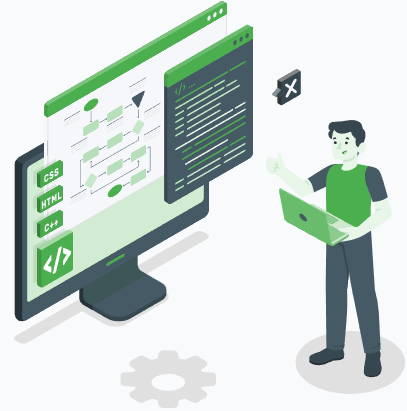
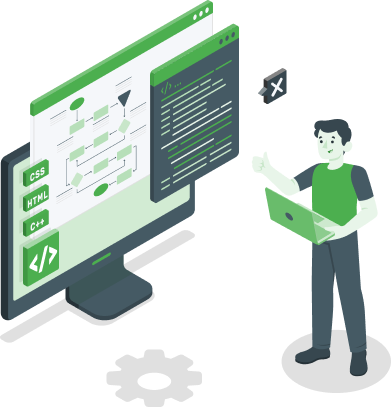
Finished 85%

diff --git a/index.html b/index.html
@@ -31,23 +31,29 @@
   </head>
   <body>
     <!-- NAVIGATION -->
-    <nav class="container navigation d-flex flex-row align-items-center mt-3">
+    <nav
+      class="container navigation d-flex flex-row align-items-center mt-3 mb-3"
+    >
       <div class="col-5 d-flex align-items-center">
         <img src="css/slike/Nextcent_icon.png" alt="Nextcent Icon" />
-        <h2 class="fw-bold">Nexcent</h2>
+        <h1 class="fw-bold brandNameColor">Nexcent</h1>
       </div>
-      <div class="d-flex col-7 justify-content-evenly align-items-center">
-        <a>Home</a>
-        <a>Features</a>
-        <a>Community</a>
-        <a>Blog</a>
-        <a>Pricing</a>
+      <div
+        class="d-flex col-7 justify-content-evenly align-items-center textDecoration"
+      >
+        <a href="#" class="fw-bold">Home</a>
+        <a href="#" class="fw-bold">Features</a>
+        <a href="#" class="fw-bold">Community</a>
+        <a href="#" class="fw-bold">Blog</a>
+        <a href="#" class="fw-bold">Pricing</a>
+
         <button class="buttonRegisterNow btn btn-success">
           Log in<span class="ms-2">&#8594;</span>
         </button>
       </div>
     </nav>
-    <div class="sliderAdBackgroundColor vh-100 d-flex align-items-center">
+    <!-- Lessons and insights -->
+    <div class="sliderAdBackgroundColor d-flex align-items-center">
       <div class="container">
         <div class="row align-items-center">
           <div class="col-md-6 text-start">
@@ -55,7 +61,7 @@
               Lessons and insights <br />
               <span class="from8Years fw-bold">from 8 years</span>
             </h1>
-            <p class="my-4 text-muted">
+            <p class="my-4 text-muted color717171">
               Where to grow your business as a photographer: site or social
               media?
             </p>
@@ -74,6 +80,237 @@
           </div>
         </div>
       </div>
+    </div>
+    <!-- Our clients -->
+    <div class="container d-flex justify-content-center align-items-center">
+      <div class="d-flex flex-column align-items-center">
+        <h1 class="color4D4D4D mt-3 fw-bold">Our clients</h1>
+        <p class="color717171 mt-1">
+          We have been working with some Fortune 500+ clients
+        </p>
+        <img
+          class="mt-5"
+          src="css/slike/Nextcent_Client_Logos.png"
+          alt="Nextcent Client Logos"
+        />
+        <h1 class="color4D4D4D mt-5 fw-bold">Manage your entire community</h1>
+        <h1 class="color4D4D4D fw-bold">in a single system</h1>
+        <p class="color717171 mt-1">Who is Nextcent suitable for?</p>
+      </div>
+    </div>
+    <!-- Memberships, associations, clubs, ... -->
+    <div class="container d-flex flex-row justify-content-evenly mt-5 mb-5">
+      <div
+        class="col-3 d-flex justify-content-center align-items-center flex-column"
+      >
+        <img
+          src="css/slike/Nexcent_Client_Logo_6.png"
+          alt="Nextcent Bulding Logo"
+        />
+        <h3 class="color4D4D4D fw-bold">Membership</h3>
+        <h3 class="color4D4D4D fw-bold">Organisations</h3>
+        <p class="color717171 text-center">
+          Our membership managment software provides full automation of
+          membership renewals and payments
+        </p>
+      </div>
+      <div
+        class="col-3 d-flex justify-content-center align-items-center flex-column"
+      >
+        <img
+          src="css/slike/Nexcent_Client_Logo_7.png"
+          alt="Nextcent Bulding Logo"
+        />
+        <h3 class="color4D4D4D fw-bold">National</h3>
+        <h3 class="color4D4D4D fw-bold">Associations</h3>
+        <p class="color717171 text-center">
+          Our membership managment software provides full automation of
+          membership renewals and payments
+        </p>
+      </div>
+      <div
+        class="col-3 d-flex justify-content-center align-items-center flex-column"
+      >
+        <img
+          src="css/slike/Nexcent_Client_Logo_8.png"
+          alt="Nextcent Bulding Logo"
+        />
+        <h3 class="color4D4D4D fw-bold">Clubs And</h3>
+        <h3 class="color4D4D4D fw-bold">Groups</h3>
+        <p class="color717171 text-center">
+          Our membership managment software provides full automation of
+          membership renewals and payments
+        </p>
+      </div>
+    </div>
+    <!-- Pixelgrade section -->
+    <div
+      class="container d-flex justify-content-evenly align-items-center mb-5"
+    >
+      <div>
+        <img src="css/slike/Nexcent_Development_2.png" />
+      </div>
+      <div class="col-5">
+        <h2 class="color4D4D4D fw-bold">
+          The unseen of spending three years at Pixelgrade
+        </h2>
+        <p class="color717171 mt-4">
+          Lorem ipsum, dolor sit amet consectetur adipisicing elit. Dignissimos,
+          laudantium aliquam neque hic odit modi consequatur dolores illo
+          reprehenderit. Exercitationem eius ex sunt molestiae vel perferendis
+          eum voluptatum illo facilis?
+        </p>
+        <button class="registerButton btn btn-success px-4 py-2">
+          Learn more
+        </button>
+      </div>
+    </div>
+    <!-- Members,clubs,bookings,payment counts -->
+    <div class="countingObjectsBackground d-flex mb-5">
+      <div
+        class="container d-flex flex-row justify-content-center align-items-center"
+      >
+        <div class="col-6">
+          <h2 class="color4D4D4D fw-bold">Helping a local</h2>
+          <h2 class="color4caf4f fw-bold">business reinvent itself</h2>
+          <p class="color717171">
+            We reached here with our hard work and dedication
+          </p>
+        </div>
+        <div class="d-flex flex-wrap countingObjects">
+          <div class="d-flex flex-row justify-content-center">
+            <div>
+              <img
+                src="css/slike/Nexcent_Members_Icon.png"
+                alt="Nexcent Members Icon"
+              />
+            </div>
+
+            <div>
+              <h3 class="fw-bold color505050">2,245,341</h3>
+              <p class="color717171">Members</p>
+            </div>
+          </div>
+          <div class="d-flex flex-row justify-content-center">
+            <div>
+              <img
+                src="css/slike/Nexcent_Clubs_Icon.png"
+                alt="Nexcent Clubs Icon"
+              />
+            </div>
+            <div>
+              <h3 class="fw-bold color505050">46,328</h3>
+              <p class="color717171">Clubs</p>
+            </div>
+          </div>
+          <div class="d-flex flex-row justify-content-center">
+            <div>
+              <img
+                src="css/slike/Nexcent_Event_Bookings_Icon.png"
+                alt="Nexcent Members Icon"
+              />
+            </div>
+            <div>
+              <h3 class="fw-bold color505050">828,867</h3>
+              <p class="color717171">Event Bookings</p>
+            </div>
+          </div>
+          <div class="d-flex flex-row justify-content-center">
+            <div>
+              <img
+                src="css/slike/Nexcent_Payments_Icon.png"
+                alt="Nexcent Members Icon"
+              />
+            </div>
+            <div>
+              <h3 class="fw-bold color505050">1,926,436</h3>
+              <p class="color717171">Payments</p>
+            </div>
+          </div>
+        </div>
+      </div>
+    </div>
+    <!-- Design footer text -->
+    <div
+      class="container d-flex flex-row justify-content-between align-items-center mb-5"
+    >
+      <div>
+        <img
+          src="css/slike/Nexcent_Development_3.png"
+          alt="Nexcent Development Image"
+        />
+      </div>
+      <div class="col-5">
+        <h2 class="color4D4D4D fw-bold">
+          How to design your site footer like we did
+        </h2>
+        <p class="color717171 mt-4">
+          Donec a eros justo. Fusce egestas tristique ultrices. Nam tempor,
+          augue nec tincidunt molestie, massa nunc varius arcu, at scelerisque
+          elit erat a magna. Donec quis erat at libero ultrices mollis. In hac
+          habitasse platea dictumst. Vivamus vehicula leo dui, at porta nisi
+          facilisis finibus. In euismod augue vitae nisi ultricies, non aliquet
+          urna tincidunt. Integer in nisi eget nulla commodo faucibus efficitur
+          quis massa. Praesent felis est, finibus et nisi ac, hendrerit
+          venenatis libero. Donec consectetur faucibus ipsum id gravida.
+        </p>
+        <button class="registerButton btn btn-success px-4 py-2">
+          Learn more
+        </button>
+      </div>
+    </div>
+    <div
+      class="designFooterBackground d-flex justify-content-center align-items-center"
+    >
+      <div
+        class="container d-flex flex-row justify-content-evenly align-items-center"
+      >
+        <div>
+          <img
+            src="css/slike/Nexcent_Development_4.png"
+            alt="Nexcent Development Image"
+          />
+        </div>
+        <div class="col-7">
+          <p class="color717171 mt-4">
+            Maecenas dignissim justo eget nulla rutrum molestie. Maecenas
+            lobortis sem dui, vel rutrum risus tincidunt ullamcorper. Proin eu
+            enim metus. Vivamus sed libero ornare, tristique quam in, gravida
+            enim. Nullam ut molestie arcu, at hendrerit elit. Morbi laoreet elit
+            at ligula molestie, nec molestie mi blandit. Suspendisse cursus
+            tellus sed augue ultrices, quis tristique nulla sodales. Suspendisse
+            eget lorem eu turpis vestibulum pretium. Suspendisse potenti.
+            Quisque malesuada enim sapien, vitae placerat ante feugiat eget.
+            Quisque vulputate odio neque, eget efficitur libero condimentum id.
+            Curabitur id nibh id sem dignissim finibus ac sit amet magna.
+          </p>
+          <h5 class="color4caf4f">Tim Smith</h5>
+          <p class="color717171">British Dragon Boat Racing Association</p>
+          <div class="d-flex justify-content-center align-items-center">
+            <img
+              src="css/slike/Nextcent_Client_Logos_2.png"
+              alt="Nexcent Client Logos"
+            />
+            <button
+              class="fw-bold color4caf4f meetAllCustomersButton btn btn-success"
+            >
+              Meet all customers<span class="ms-2">&#8594;</span>
+            </button>
+          </div>
+        </div>
+      </div>
+    </div>
+    <!-- Read more section -->
+    <div
+      class="d-flex flex-column justify-content-center align-items-center text-center mt-5"
+    >
+      <h2 class="fw-bold color4D4D4D">Caring is the new marketing</h2>
+      <p class="color717171 col-4 mt-3">
+        The Nextcent blog is the best place to read about the latest membership
+        insights, trends and more. See who's joining the community, read about
+        how our community are increasing their membership income and lot's
+        more.
+      </p>
     </div>
     <!-- SCRIPTS -->
     <script

diff --git a/css/style.css b/css/style.css
@@ -16,6 +16,32 @@ html {
   height: 58.76px;
 }
 
+.brandNameColor {
+  color: #263238;
+}
+
+.textDecoration a {
+  text-decoration: none;
+  color: #4d4d4d;
+  overflow: hidden;
+}
+
+.color4caf4f {
+  color: #4caf4f;
+}
+
+.color4D4D4D {
+  color: #4d4d4d;
+}
+
+.color717171 {
+  color: #717171;
+}
+
+.color505050 {
+  color: #505050;
+}
+
 .buttonRegisterNow {
   background-color: #4caf4f;
   width: 160.25px;
@@ -36,6 +62,7 @@ html {
 
 .sliderAdBackgroundColor {
   background-color: #f5f7fa;
+  height: 65vh;
 }
 
 .sliderAd {
@@ -45,8 +72,33 @@ html {
 
 .lessonsAndInsights {
   color: #4d4d4d;
-  font-size: 4rem;
+  font-size: 3.5rem;
 }
 .from8Years {
   color: #4caf4f;
+}
+
+.countingObjects {
+  gap: 80px;
+}
+
+.countingObjectsBackground {
+  width: 100%;
+  height: 300px;
+  background-color: #f5f7fa;
+}
+
+.designFooterBackground {
+  width: 100%;
+  height: 390px;
+  background-color: #f5f7fa;
+}
+
+.meetAllCustomersButton {
+  text-decoration: none;
+  overflow: hidden;
+  border: none;
+  background-color: #f5f7fa;
+  font-size: 1.2rem;
+  margin-left: 35px;
 }
